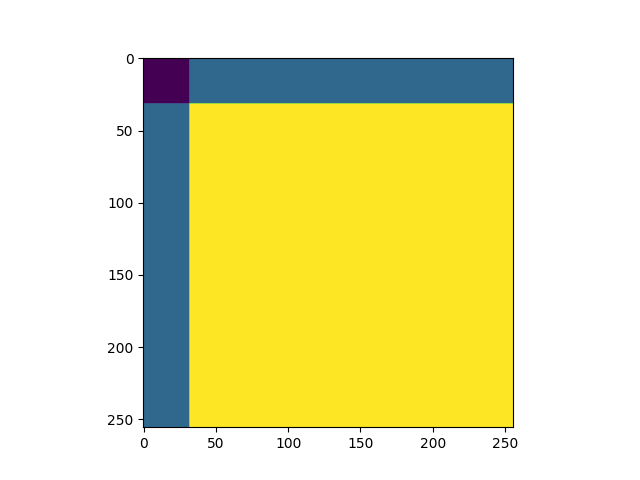
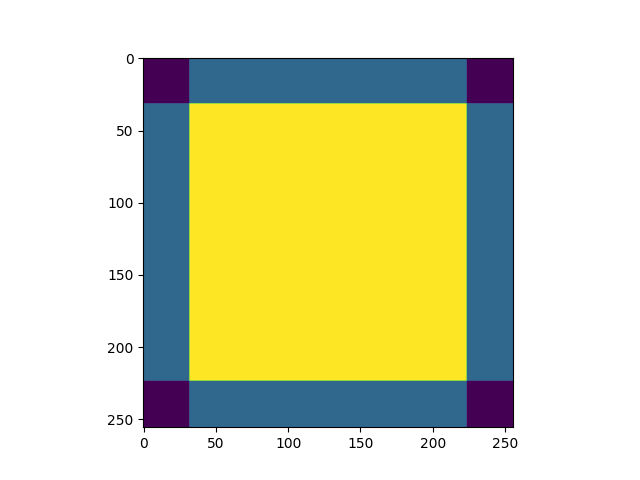
Fix scaling mask computation

Changed region(s): [[0.2188, 0.125, 0.8125, 0.9062]]

diff --git a/code/model.py b/code/model.py
@@ -210,8 +210,8 @@ class CRW(nn.Module):
         h_wnd, w_wnd = window_shape[-2:]
         scaling_mask = torch.zeros_like(x)
 
-        for i in range(0, H, window_step):
-            for j in range(0, W, window_step):
+        for i in range(0, H-window_step, window_step):
+            for j in range(0, W-window_step, window_step):
                 scaling_mask[:, :, :, i:i+h_wnd, j:j+w_wnd] += 1
 
         return scaling_mask
